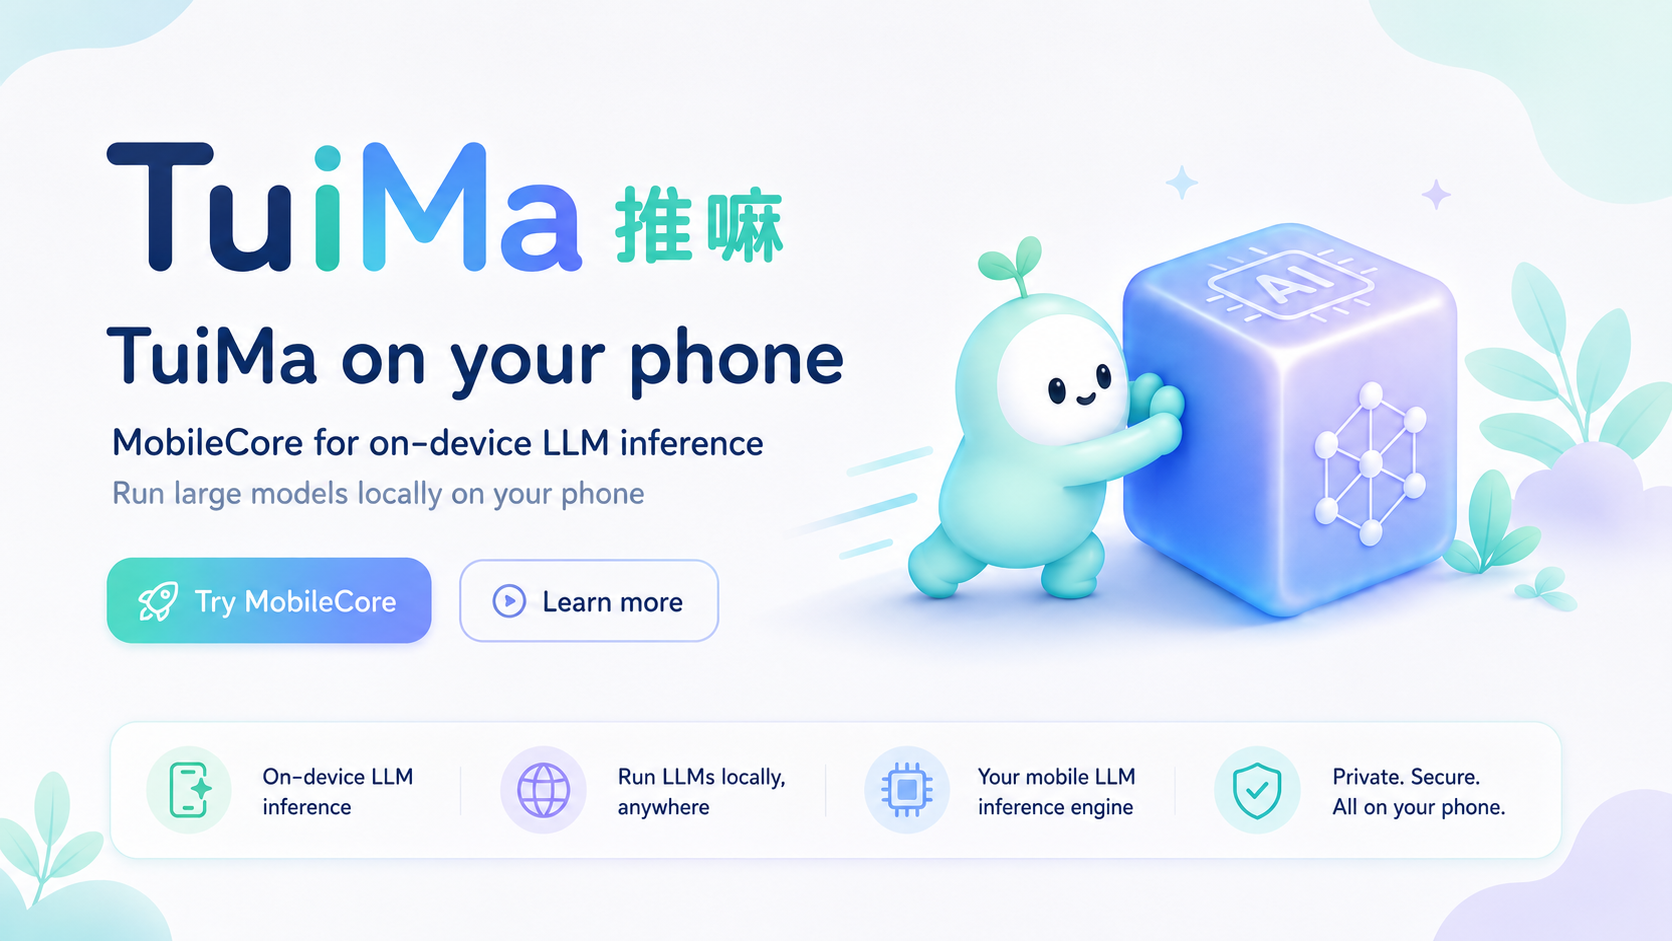
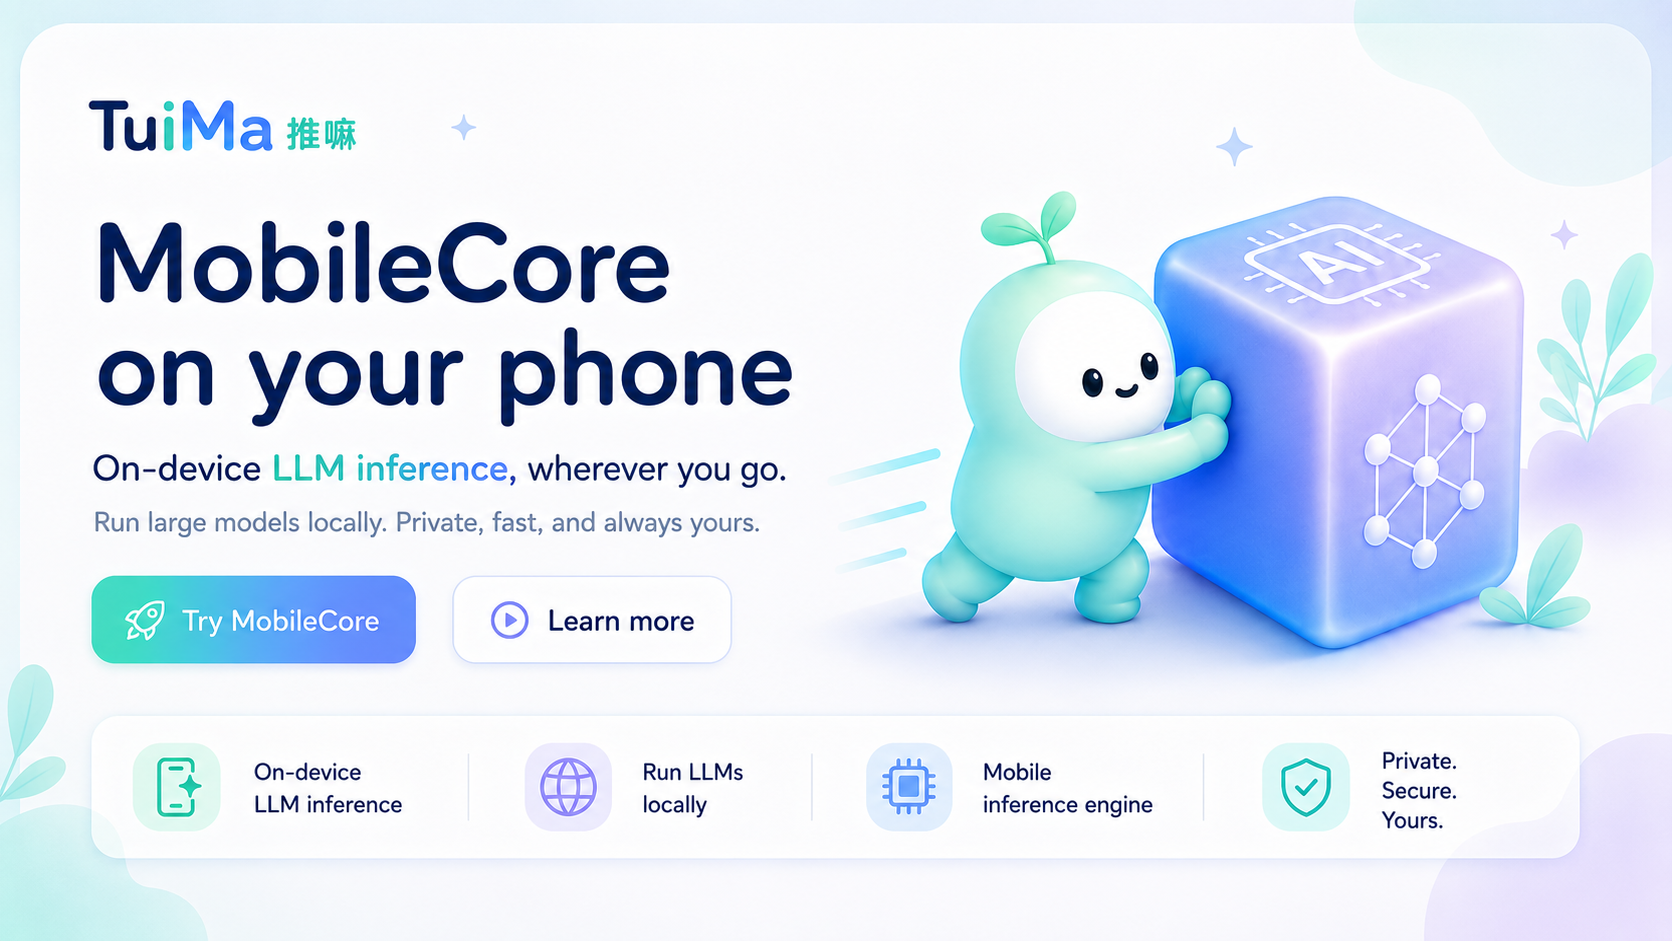
Update README TuiMa images

diff --git a/README.md b/README.md
@@ -41,10 +41,10 @@ It is designed to sit below MobileCode or any other mobile app that wants to cal
 
 ## Visual Proof
 
-MobileCore keeps the product design direction and the current Android validation evidence side by side: the first image shows the TuiMa visual direction, and the second image is a real AVD screenshot with device probing, preference control, ranked recommendations, benchmark-backed stats, and a direct `Load` action.
+MobileCore keeps the product design direction and the current Android validation evidence side by side: the first image shows the updated TuiMa brand direction, and the second image is a real AVD screenshot with device probing, preference control, ranked recommendations, benchmark-backed stats, and a direct `Load` action.
 
 <p align="center">
-  <img src="docs/readme-assets/tuima-home.png" alt="TuiMa MobileCore home screen design direction" width="330" />
+  <img src="docs/readme-assets/tuima-brand-card.png" alt="Updated TuiMa brand card for MobileCore on-device LLM inference" width="330" />
   <img src="docs/readme-assets/recommendation-card.png" alt="MobileCore Android recommendation card with preference slider, model ranking, token speed, memory, and Load action" width="330" />
 </p>
 